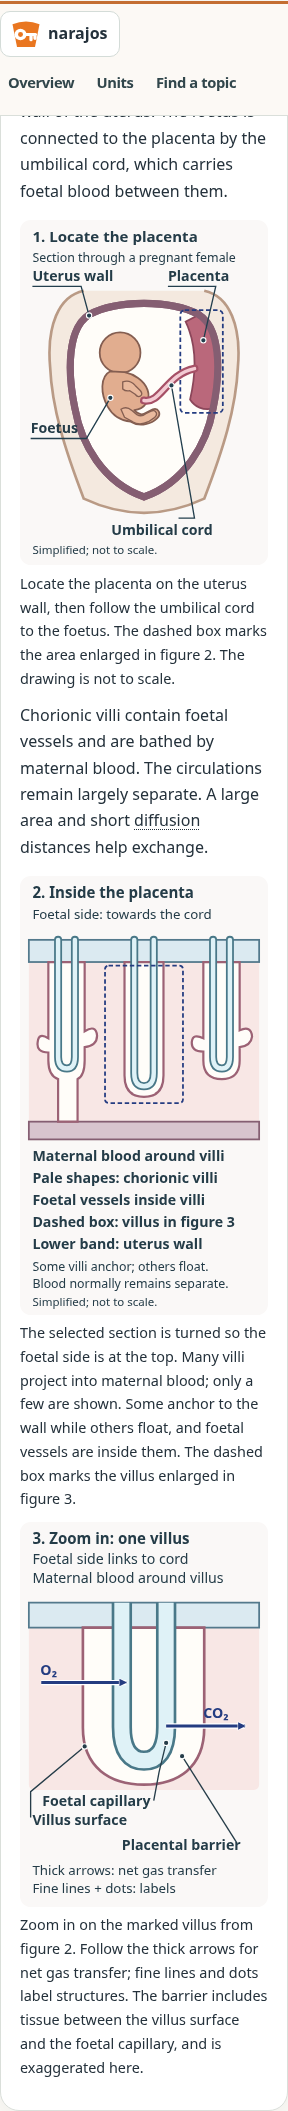
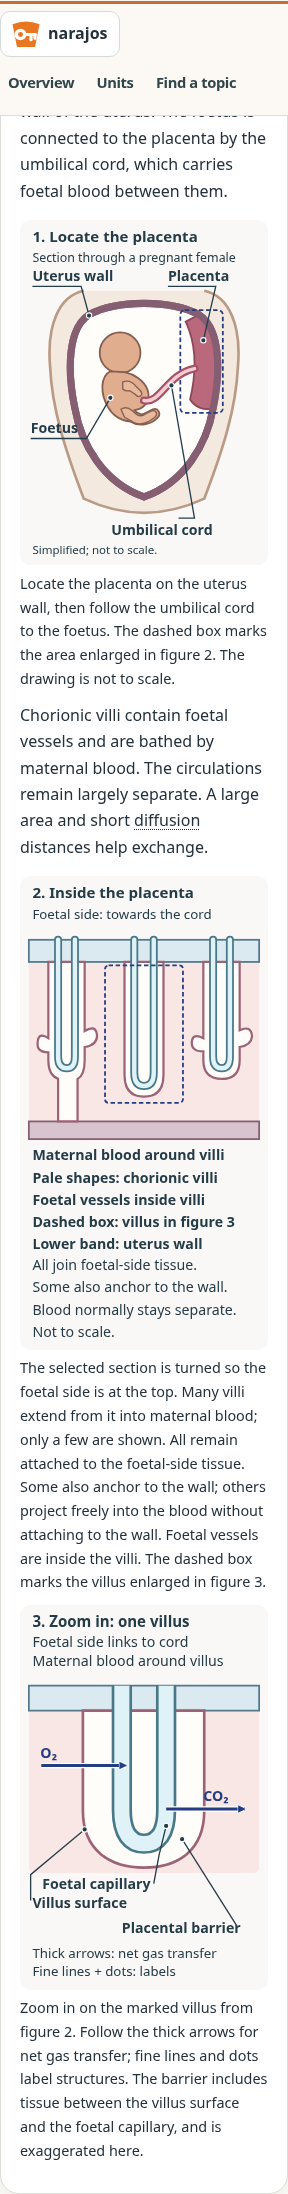
Clarify how villi remain attached

Changed region(s): [[0.0312, 0.0, 0.9375, 0.9853], [0.8438, 0.0616, 0.9062, 0.0924]]

diff --git a/public/human-biology/teaching-knowledge.js b/public/human-biology/teaching-knowledge.js
@@ -252,9 +252,9 @@
         0: [{src:"/human-biology/f175-placenta-orientation.svg", width:280, height:390, compact:true, assessmentSensitive:true,
           alt:"A simplified section through a pregnant female's body shows the placenta attached to the wall of the uterus. An umbilical cord connects the placenta to the foetus and carries foetal blood. A dashed box marks the placenta region enlarged in figure 2. Fine lines label the structures. The drawing is not to scale.",
           caption:"Locate the placenta on the uterus wall, then follow the umbilical cord to the foetus. The dashed box marks the area enlarged in figure 2. The drawing is not to scale."}],
-        1: [{src:"/human-biology/f175-placenta-many-villi.svg", width:280, height:495, compact:true, assessmentSensitive:true,
-          alt:"A section of the placenta selected in figure 1 is turned so the foetal side, towards the cord, is at the top and the uterine wall below. Several branching chorionic villi extend from foetal-side tissue into maternal blood; only a few are shown. One villus anchors to the uterine wall and the others float in maternal blood. Blue loops represent the main foetal vessels inside the villi. A dashed box marks the middle villus enlarged in figure 3. Maternal and foetal blood normally remain separate; the schematic is not to scale.",
-          caption:"The selected section is turned so the foetal side is at the top. Many villi project into maternal blood; only a few are shown. Some anchor to the wall while others float, and foetal vessels are inside them. The dashed box marks the villus enlarged in figure 3."},
+        1: [{src:"/human-biology/f175-placenta-many-villi.svg", width:280, height:535, compact:true, assessmentSensitive:true,
+          alt:"A section of the placenta selected in figure 1 is turned so the foetal side, towards the cord, is at the top and the uterine wall below. Several branching chorionic villi extend into maternal blood; only a few are shown. All remain attached to the foetal-side tissue. One also anchors to the uterine wall; the others project freely into maternal blood without attaching to the wall. Blue loops represent the main foetal vessels inside the villi. A dashed box marks the middle villus enlarged in figure 3. Maternal and foetal blood normally remain separate; the schematic is not to scale.",
+          caption:"The selected section is turned so the foetal side is at the top. Many villi extend from it into maternal blood; only a few are shown. All remain attached to the foetal-side tissue. Some also anchor to the wall; others project freely into the blood without attaching to the wall. Foetal vessels are inside the villi. The dashed box marks the villus enlarged in figure 3."},
           {src:"/human-biology/f175-placenta-villus.svg", width:280, height:434, compact:true, assessmentSensitive:true,
           alt:"An enlargement of the marked villus in figure 2 shows a chorionic villus attached to tissue on the foetal side, with a foetal capillary inside and maternal blood around it. A thick arrow shows net oxygen transfer from maternal blood across the placental barrier into foetal blood. A second thick arrow shows carbon dioxide moving the other way. Fine lines ending in dots label structures. The barrier is exaggerated and the drawing is not to scale.",
           caption:"Zoom in on the marked villus from figure 2. Follow the thick arrows for net gas transfer; fine lines and dots label structures. The barrier includes tissue between the villus surface and the foetal capillary, and is exaggerated here."}]

diff --git a/public/human-biology/f175-placenta-stage-figures.js b/public/human-biology/f175-placenta-stage-figures.js
@@ -7,7 +7,7 @@
  lesson.modelDiagrams={...lesson.modelDiagrams,
   0:[
    {...orientation,caption:'Locate the placenta and umbilical cord. The dashed box marks the area shown in figure 2.'},
-   {...many,caption:'Figure 2 turns the selected section so the foetal side is at the top. Maternal blood surrounds the villi; foetal vessels are inside. Only a few villi are shown. The dashed box marks the villus shown in figure 3.'},
+   {...many,caption:'Figure 2 turns the section so the foetal side is at the top. All villi remain attached to foetal-side tissue. Some also anchor to the uterine wall; others project freely into maternal blood. Foetal vessels lie inside. Only a few villi are shown; the dashed box marks the villus in figure 3.'},
    {...villus,caption:'Figure 3 enlarges the marked villus. Locate maternal blood around it and the foetal capillary inside; the barrier is exaggerated.'}
   ],
   1:{...villus,caption:'Follow the oxygen arrow across the barrier into the foetal capillary. The arrow shows net transfer.'},

diff --git a/docs/catchup-visual-coverage-human-steps.md b/docs/catchup-visual-coverage-human-steps.md
@@ -112,7 +112,7 @@ The Lyme photograph is James Gathany / CDC, [PHIL 9875](https://phil.cdc.gov/Det
 | F172/a4 gene therapy | Explanation and model retain `gene-delivery.svg`; each of three model steps also uses `f172-gene-expression-comparison.svg`. | One fictional four-cell example shows incomplete delivery and expression, without claiming measured effectiveness. OCR and MedlinePlus/FDA sources are in the module. | Relates the low-protein starting state and incomplete target-cell delivery to the example outcome. | All worked stages inspected at 320/1280; sensitive figures hide during independent and after reload, and restore in teaching. | Somatic inheritance and other approaches such as editing or changing expression remain text-only. |
 | F174/a4 nutritional measurements | Explanation paragraphs 1–2 use `f174-bmi-composition.svg` and `f174-intake-biomarker.svg`; model step 1 uses BMI, steps 2–3 intake and biomarkers. | Equal height and mass imply equal BMI; fictional bar portions differ. Absorption, use and sampling conditions can affect comparisons; no real data are claimed. OCR and CDC sources are in the module. | Makes the limits of BMI and intake records visible alongside the corresponding facts. | Explanation and all stages checked at 320/1280; sensitive figures hide during independent/reload and restore in teaching. | Illustrative examples do not establish individual nutritional status or describe all biomarker factors. |
 | F174/a1 nutrients | Explanation and both model steps use `meals-energy-iron.svg`; model step 2 also uses `f174-iron-haemoglobin-oxygen.svg`. | Meals are fictional and iron supports haemoglobin production in developing red cells, which carry oxygen. No measured nutrient data or guaranteed clinical effect is implied; OCR and NHLBI sources are in the module. | Separates energy from an iron source and traces iron to haemoglobin and oxygen transport. | Both stages checked at 320/1280; sensitive copies hide during independent/reload and return in teaching. | Roles of other nutrients and other causes of iron deficiency remain unillustrated. |
-| F175/a2 placenta | Explanation paragraph 1: `f175-placenta-orientation.svg`; paragraph 2: `f175-placenta-many-villi.svg` and `f175-placenta-villus.svg`. Model step 1 presents all three in order; steps 2–3 each have their own adjacent villus view. Recaps 0–1 reuse all three. | **Accuracy:** checked against [OpenStax anatomy and physiology 2e §28.2](https://openstax.org/books/anatomy-and-physiology-2e/pages/28-2-embryonic-development) for location, separate circulations and gas direction, and [NCBI Bookshelf on the placenta](https://www.ncbi.nlm.nih.gov/books/NBK53256/) for anchoring and floating villi. The simplified drawings exaggerate the placental barrier and are not to scale. The [OCR F175 specification](https://www.ocr.org.uk/Images/697578-specification-cambridge-advanced-national-in-human-biology.pdf) covers foetal development and antenatal care; this exchange diagram supports the existing lesson rather than claiming this histological detail is a specific requirement. | **Teaching relevance:** the first view locates the placenta, uterus, foetus and cord; the turned middle view shows multiple villi, and the enlarged villus shows maternal blood outside and a foetal capillary within. Thick gas arrows contrast with thin dotted leaders. | **Readability:** teaching figures visually checked at 320 and 1280 px; arrowheads and leader endpoints inspected separately. Assessment-sensitive copies are covered by the focused Human Biology regression. | The intermediate schematic shows a few villi and omits most branching; it does not quantify surface area. The earlier unorientated figures remain withheld. |
+| F175/a2 placenta | Explanation paragraph 1: `f175-placenta-orientation.svg`; paragraph 2: `f175-placenta-many-villi.svg` and `f175-placenta-villus.svg`. Model step 1 presents all three in order; steps 2–3 each have their own adjacent villus view. Recaps 0–1 reuse all three. | **Accuracy:** checked against [OpenStax anatomy and physiology 2e §28.2](https://openstax.org/books/anatomy-and-physiology-2e/pages/28-2-embryonic-development) for location, separate circulations and gas direction, and [NCBI Bookshelf on the placenta](https://www.ncbi.nlm.nih.gov/books/NBK53256/) for villi attached to foetal-side tissue, including some that also anchor to the uterine wall. The simplified drawings exaggerate the placental barrier and are not to scale. The [OCR F175 specification](https://www.ocr.org.uk/Images/697578-specification-cambridge-advanced-national-in-human-biology.pdf) covers foetal development and antenatal care; this exchange diagram supports the existing lesson rather than claiming this histological detail is a specific requirement. | **Teaching relevance:** the first view locates the placenta, uterus, foetus and cord; the turned middle view shows villi attached to foetal-side tissue, some also anchoring to the uterine wall; the enlarged villus shows maternal blood outside and a foetal capillary within. Thick gas arrows contrast with thin dotted leaders. | **Readability:** teaching figures visually checked at 320 and 1280 px; arrowheads and leader endpoints inspected separately. Assessment-sensitive copies are covered by the focused Human Biology regression. | The intermediate schematic shows a few villi and omits most branching; it does not quantify surface area. The earlier unorientated figures remain withheld. |
 | F175/a4 IVF/ICSI | Explanation and model: `ivf-icsi.svg` compares bringing sperm and oocyte together with injection, followed by conditional transfer and implantation. | Injection is shown as an IVF method; later transfer and implantation are conditional. Checked against lesson; external specification review pending. | Directly supports fertilisation method and uncertainty of later implantation; the model's bypass of oviduct transport is not pictured. | Redesigned to fit; checked at 320 and 1280 px without horizontal scrolling. | Reproductive anatomy would clarify the oviduct bypass. |
 | F176/a2 neurones | Explanation: `action-potential-ions.svg` compares sodium entry in depolarisation with potassium leaving during repolarisation. Model: existing synapse visual is provided through `visualFrom`; step 6 additionally shows `threshold-comparison.svg` alongside the comparison of potentials. | Arrow directions and stages match the lesson; channel timing is simplified. The worked graph plots −65 and −58 mV against a −55 mV threshold with a linear axis. Checked against lesson; external specification review pending. | Supports the ionic explanation. The graph supports the worked threshold comparison. The existing synapse model is visible at the opening worked step, but its stages are student-controlled rather than automatically synchronised with the worked steps. | New figures checked at 320 and 1280 px; labels and both ion stages and the graph are visible without scrolling. | Review whether students can connect the separately controlled synapse model to each of the first five worked steps; the graph compares potentials, not the cellular mechanism of reduced inhibition. |
 
